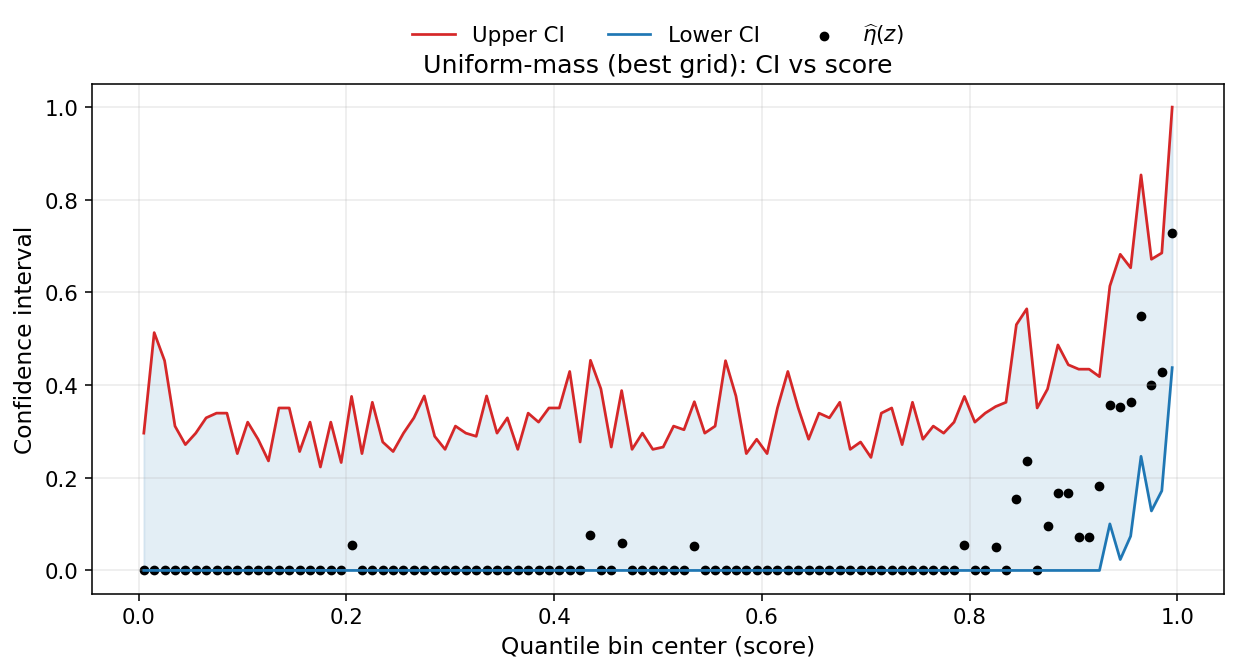
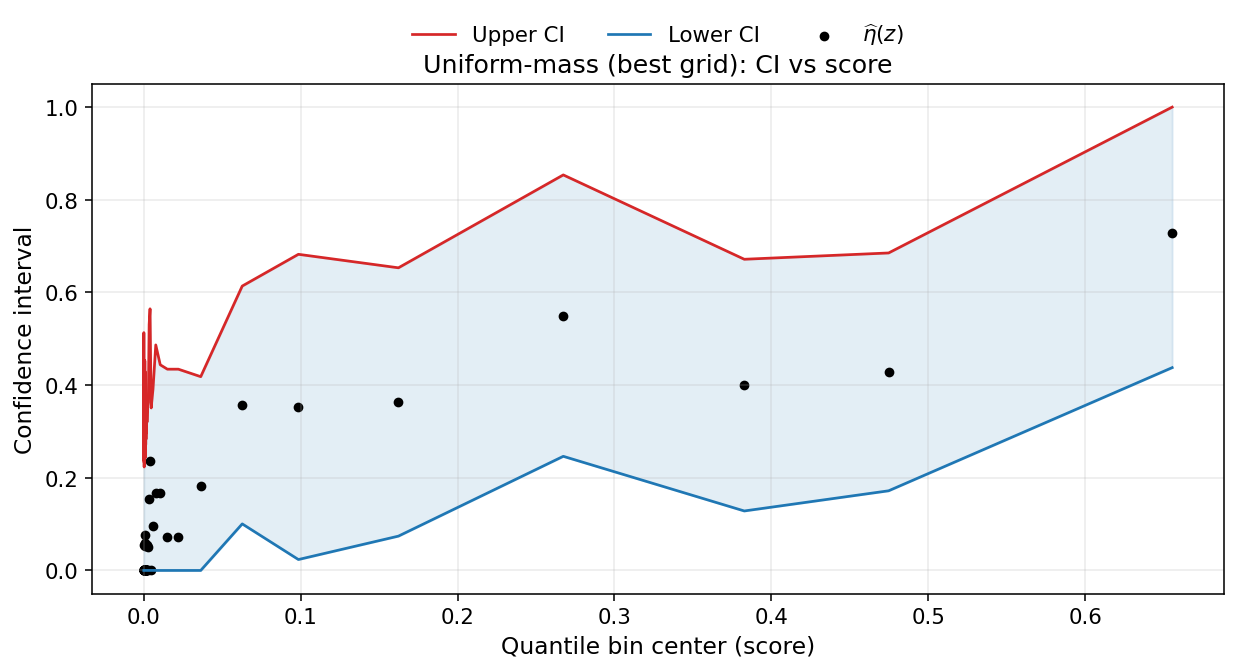
docs: fix uniform-mass bin centers

diff --git a/scripts/diagnostics/render_report_plots.py b/scripts/diagnostics/render_report_plots.py
@@ -112,6 +112,15 @@ def _build_test_indices(n_total: int, n_res: int, n_cal: int, n_test: int, seed_
     return np.asarray(test_idx, dtype=int)
 
 
+def _build_res_indices(n_total: int, n_res: int, n_cal: int, seed_split: int | None) -> np.ndarray:
+    perm = list(range(n_total))
+    if seed_split is not None:
+        rng = random.Random(seed_split)
+        rng.shuffle(perm)
+    res_idx = perm[n_cal : n_cal + n_res]
+    return np.asarray(res_idx, dtype=int)
+
+
 def _plot_score_distribution(
     scores: np.ndarray,
     out_path: Path,
@@ -195,11 +204,42 @@ def main() -> None:
         },
     }
 
+    res_scores = None
+    if args.latent_path and args.n_res and args.n_cal:
+        latent_path = Path(args.latent_path)
+        if not latent_path.exists():
+            raise FileNotFoundError(f"Missing latent file: {latent_path}")
+        pkg = torch.load(latent_path, map_location="cpu")
+        logits = pkg["logits"]
+        scores_all = _compute_score(
+            logits=logits,
+            space=args.score_space,
+            temperature=args.temperature,
+            normalize_gini=args.normalize_gini,
+        )
+        res_idx = _build_res_indices(
+            n_total=scores_all.shape[0],
+            n_res=args.n_res,
+            n_cal=args.n_cal,
+            seed_split=args.seed_split,
+        )
+        res_scores = scores_all[res_idx]
+
     for run_name, cfg in runs.items():
         csv_path = root / run_name / "bin_diagnostics.csv"
         if not csv_path.exists():
             raise FileNotFoundError(f"Missing {csv_path}")
         df = pd.read_csv(csv_path)
+        centers = df["center"].to_numpy()
+        widths = df["width"].to_numpy()
+        if res_scores is not None and "unif-mass" in run_name:
+            k = len(df)
+            quantiles = np.quantile(res_scores, np.linspace(0.0, 1.0, k + 1))
+            centers = 0.5 * (quantiles[:-1] + quantiles[1:])
+            widths = quantiles[1:] - quantiles[:-1]
+            df = df.copy()
+            df["center"] = centers
+            df["width"] = widths
         title = cfg["title"]
         _plot_ci_vs_score(
             df,
